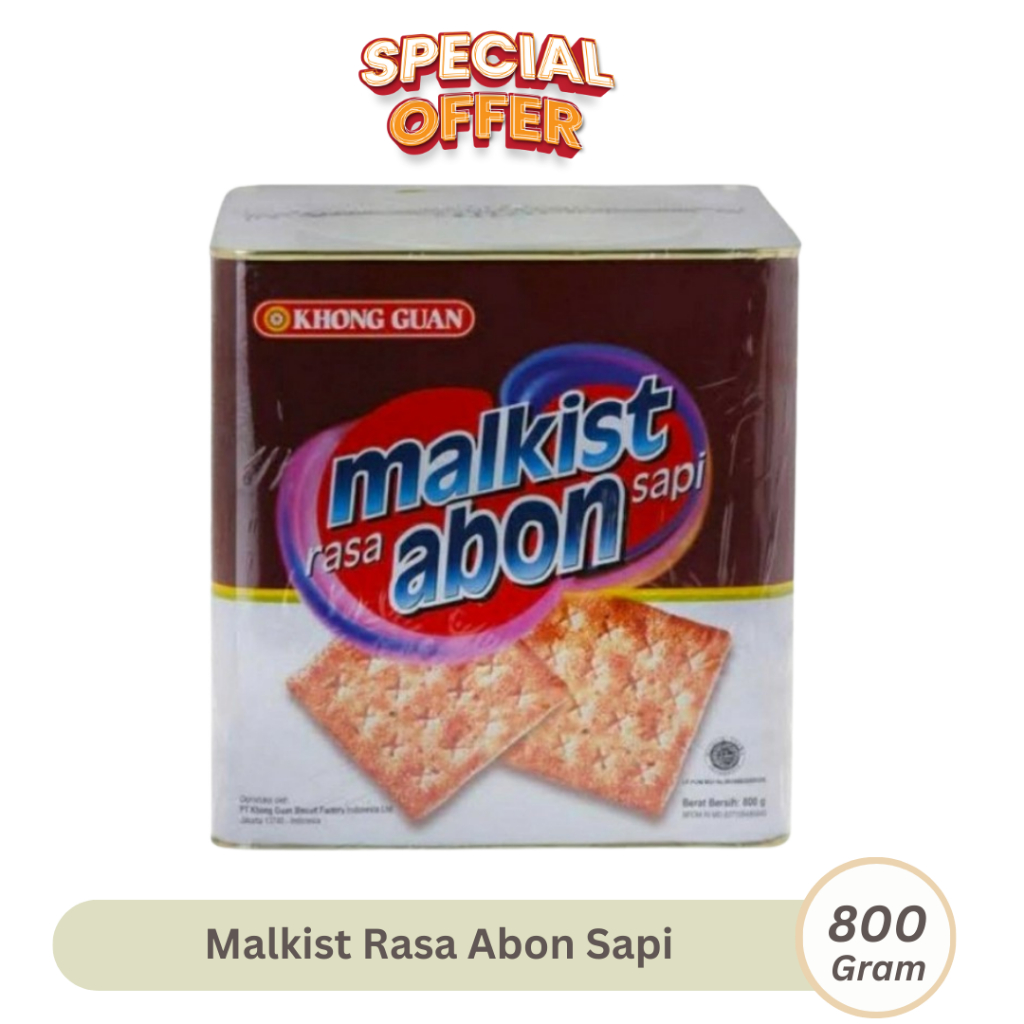
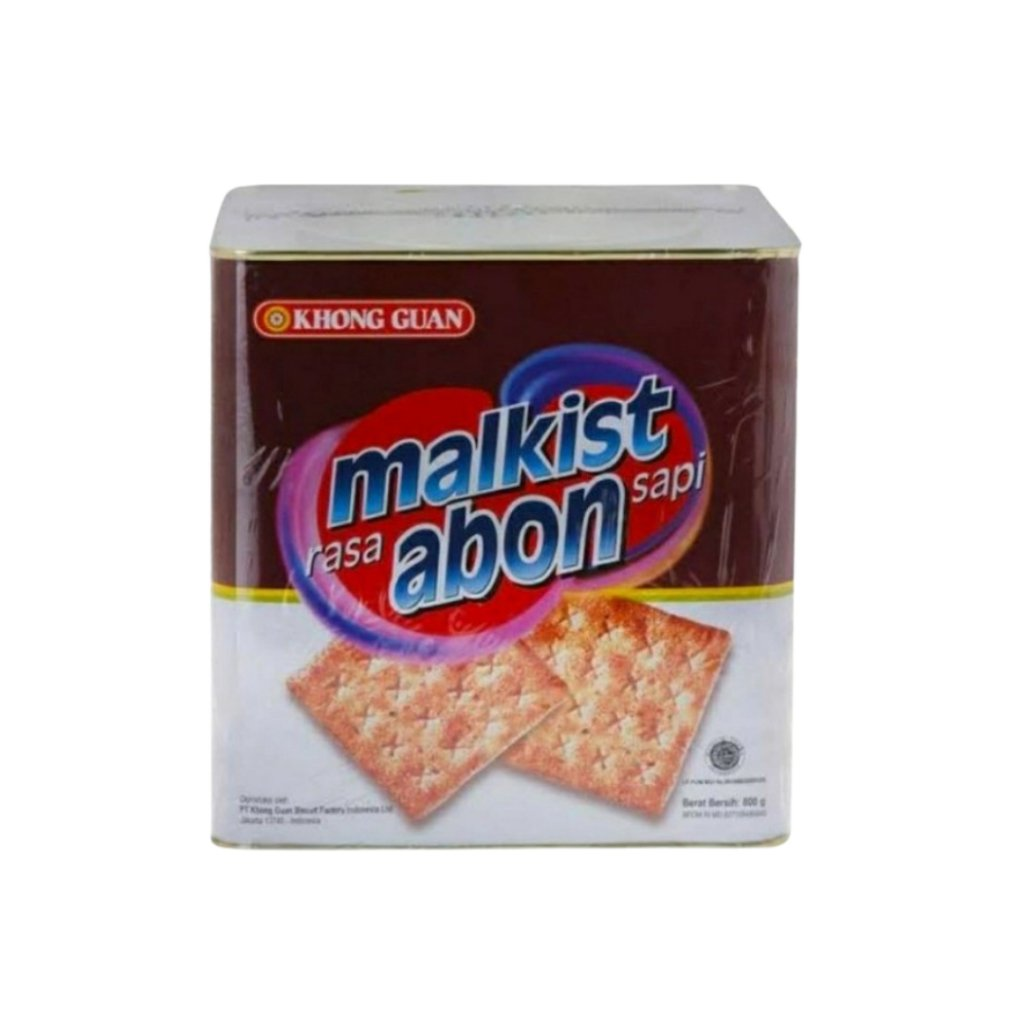
adding images data

Changed region(s): [[0.0312, 0.8438, 0.9375, 1.0], [0.3438, 0.0312, 0.625, 0.1562], [0.8438, 0.8125, 0.875, 0.8438]]

diff --git a/src/App.js b/src/App.js
@@ -413,13 +413,13 @@ const products = [
   {
     "id": 68,
     "title": "KG MALKIST ABON SAPI 135GX20 PAK",
-    "image": "/images/abonpak.jpeg",
+    "image": "/images/44281989_8e4d66be-c070-45f5-839d-2df2f1eaeedc_800_800.jpeg",
     "category": "khong-guan"
   },
   {
     "id": 69,
     "title": "KG MALKIST ABON SAPI 800GX6TIN",
-    "image": "/images/",
+    "image": "/images/abontin.jpeg",
     "category": "khong-guan"
   },
   {
@@ -431,91 +431,91 @@ const products = [
   {
     "id": 71,
     "title": "KG MALKIST CRACKERS 135GX20",
-    "image": "/images/",
+    "image": "/images/12fced34-378a-4721-8d24-4614eaf12010.jpg",
     "category": "khong-guan"
   },
   {
     "id": 72,
     "title": "KG MALKIST CRACKERS 21GX8PX10RCG",
-    "image": "/images/",
+    "image": "/images/38c2256d-0032-40a9-851f-f6a435a156fb.jpeg",
     "category": "khong-guan"
   },
   {
     "id": 73,
     "title": "KG MALKIST KELAPA 21GX8PX10RCG",
-    "image": "/images/",
+    "image": "/images/khong_guan_khongguan_malkist_kelapa_27_gram_-10_pcs-_full02_kwosnuda.webp",
     "category": "khong-guan"
   },
   {
     "id": 74,
     "title": "KG MALKIST SALUT COKLAT 100GX20PAK",
-    "image": "/images/",
+    "image": "/images/id-11134207-7rask-m2aoewx90zy132.jpeg",
     "category": "khong-guan"
   },
   {
     "id": 75,
     "title": "KG MALKIST SEAWEED 135GX20 PAK",
-    "image": "/images/",
+    "image": "/images/71160237_d3a21b88-2f4a-4faa-92ea-e9203daa7ba0_800_800.jpeg",
     "category": "khong-guan"
   },
   {
     "id": 76,
     "title": "KG MARIE SPECIAL 225GX24 PAK",
-    "image": "/images/",
+    "image": "/images/ProductMariebiscuit_khongguan_225gr.png",
     "category": "khong-guan"
   },
   {
     "id": 77,
     "title": "KG MARIE SUSU 160GX20 PAK",
-    "image": "/images/",
+    "image": "/images/2d519d1c4158ba8743105cc693a91bde.jpeg",
     "category": "khong-guan"
   },
   {
     "id": 78,
     "title": "KG SALTCHEESE COMBERRY 17GX12PX10RCG",
-    "image": "/images/",
+    "image": "/images/cb.jpg",
     "category": "khong-guan"
   },
   {
     "id": 79,
     "title": "KG SALTCHEESE COMBO 175GX20 PAK",
-    "image": "/images/",
+    "image": "/images/scb.jpg",
     "category": "khong-guan"
   },
   {
     "id": 80,
     "title": "KG SALTCHEESE COMBO 17GX12BAGX10RCG",
-    "image": "/images/",
+    "image": "/images/9fa3dcab26f1312ce09e95cb42334ec3.jpeg",
     "category": "khong-guan"
   },
   {
     "id": 81,
     "title": "KG SALTCHEESE COMBO 17GX12PX10RCG",
-    "image": "/images/",
+    "image": "/images/comborcg1.jpg",
     "category": "khong-guan"
   },
   {
     "id": 82,
     "title": "KG SALTCHEESE COMBO 34GRX6PAKX10RTG",
-    "image": "/images/",
+    "image": "/images/id-11134207-7r98y-llkcrt4uxqocea.jpeg",
     "category": "khong-guan"
   },
   {
     "id": 83,
     "title": "KG SALTCHEESE COMBOCIZ 175GX20 PAK",
-    "image": "/images/",
+    "image": "/images/72dc7c94-5bfa-46e4-8c36-8fca8c64c5b2.jpg",
     "category": "khong-guan"
   },
   {
     "id": 84,
     "title": "KG SALTCHEESE COMBOCIZ 17GX12PX10RCG",
-    "image": "/images/",
+    "image": "/images/cbciz.jpg",
     "category": "khong-guan"
   },
   {
     "id": 85,
     "title": "KG SALTCHEESE CRACKERS 200GX30",
-    "image": "/images/",
+    "image": "/images/b22536504c24d29ed0ee97768eb25502.jpeg",
     "category": "khong-guan"
   },
 ];
